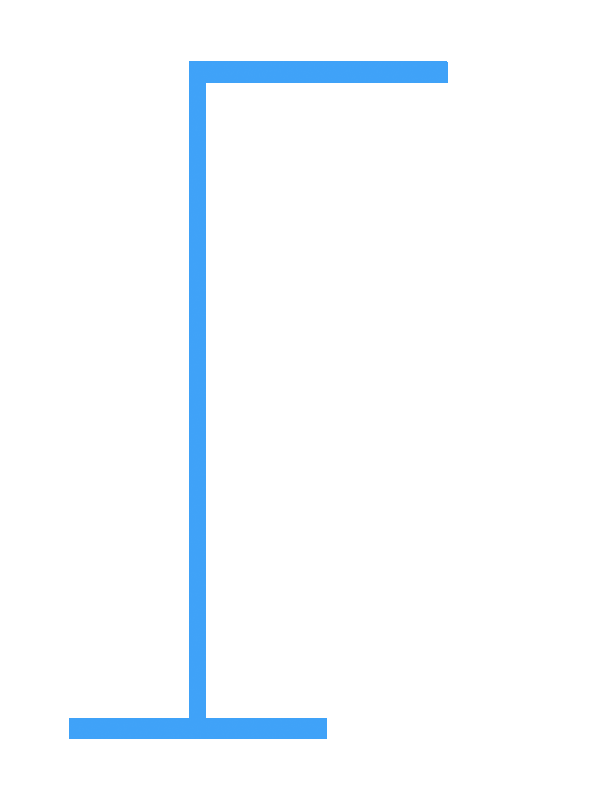
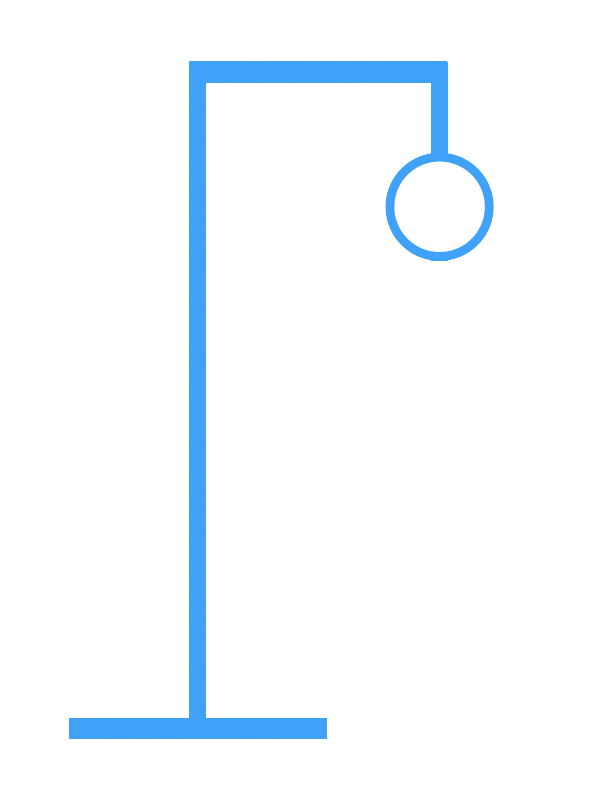
finalizado ahorcado

Changed region(s): [[0.6374, 0.0938, 0.8499, 0.3438]]

diff --git a/src/app/components/punto2/punto2/punto2.component.ts b/src/app/components/punto2/punto2/punto2.component.ts
@@ -1,5 +1,6 @@
 import { Component, OnInit } from '@angular/core';
-
+import { Palo } from 'src/app/models/palo/palo';
+import Swal from 'sweetalert2';
 @Component({
   selector: 'app-punto2',
   templateUrl: './punto2.component.html',
@@ -7,23 +8,31 @@ import { Component, OnInit } from '@angular/core';
 })
 
 export class Punto2Component implements OnInit {
-  // letras: string[] = ['a', 'b', 'c', 'd', 'e', 'f', 'g', 'h', 'i', 'j', 'k', 'l', 'm', 'n', 'o', 'p', 'q', 'r', 's', 't', 'u', 'v', 'w', 'x', 'y', 'z'];
   opciones: Array<{ letra: string, clase: string }> = [{ letra: 'a', clase: "bg-info" }, { letra: 'b', clase: "bg-info" }, { letra: 'c', clase: "bg-info" }, { letra: 'd', clase: "bg-info" }, { letra: 'e', clase: "bg-info" }, { letra: 'f', clase: "bg-info" }, { letra: 'g', clase: "bg-info" }, { letra: 'h', clase: "bg-info" }, { letra: 'i', clase: "bg-info" }, { letra: 'j', clase: "bg-info" }, { letra: 'k', clase: "bg-info" }, { letra: 'l', clase: "bg-info" }, { letra: 'm', clase: "bg-info" }, { letra: 'n', clase: "bg-info" }, { letra: 'ñ', clase: "bg-info" }, { letra: 'o', clase: "bg-info" }, { letra: 'p', clase: "bg-info" }, { letra: 'q', clase: "bg-info" }, { letra: 'r', clase: "bg-info" }, { letra: 's', clase: "bg-info" }, { letra: 't', clase: "bg-info" }, { letra: 'u', clase: "bg-info" }, { letra: 'v', clase: "bg-info" }, { letra: 'w', clase: "bg-info" }, { letra: 'x', clase: "bg-info" }, { letra: 'y', clase: "bg-info" }, { letra: 'z', clase: "bg-info" }];
-  palabras: string[] = ['jaguar', 'cocodrilo', 'leon', 'gato', 'perro', 'jirafa', 'hipopotamo'];
+  palabras: string[] = ['jaguar', 'cocodrilo', 'leon', 'gato', 'perro', 'jirafa', 'hipopotamo', 'cangrejo', 'rata', 'paloma'];
   indice: number = 0;
+  palos!: Array<Palo>;
   palabraSeleccionada!: string;
   intentos: number = 5;
-  errores: number = 0;
+  aciertos: number = 0;
   letrasEncontradas: string[] = [];
   str: string = '';
+  palo!: Palo;
+  indicePalo: number = 0;
   constructor() {
     //categoria animales
+    this.palos = [{ img: "0.png" }, { img: "1.png" }, { img: "2.png" }, { img: "3.png" }, { img: "4.png" }, { img: "5.png" }]
     this.seleccionarPalabra();
     this.mostrarPalabra();
+    this.iniciar();
   }
-
+  recargar() {
+    window.location.reload();
+  }
   iniciar() {
-
+    if (this.indicePalo < this.palos.length) {
+      this.palo = this.palos[this.indicePalo];
+    }
   }
   seleccionarPalabra() {
     let total_palabras = this.palabras.length;
@@ -51,16 +60,53 @@ export class Punto2Component implements OnInit {
     //metodo para verificar letra
     let opt = this.opciones.find(elemento => elemento == value.letra);
     let palabra = this.palabraSeleccionada.split('');
+    let color = false;
     palabra.forEach((e, i) => {
       if (e == opt!.letra) {
         this.letrasEncontradas[i] = e;
         this.mostrarPalabra();
-        opt!.clase = "bg-success";
+        color = true;
+        this.aciertos = this.aciertos + 1;
       }
     });
-    //cambiar color a la letra errada
-    // opt!.clase = "bg-danger";
-    console.log(opt);
+    if (color == false) {
+      opt!.clase = "bg-danger";
+      this.intentos = this.intentos - 1;
+
+      this.indicePalo = this.indicePalo + 1;
+      if (this.indicePalo < this.palos.length) {
+        this.palo = this.palos[this.indicePalo];
+      }
+
+
+    }
+    else {
+      opt!.clase = "bg-success";
+    }
+    if (this.intentos <= 0) {
+      Swal.fire({
+        icon: 'error',
+        title: 'Has Perdido!!!!',
+        confirmButtonText: 'Ok',
+      }).then(async (result) => {
+        if (result.isConfirmed) {
+          await Swal.fire('Cambiando Palabra...', '', 'question');
+          this.recargar();
+        }
+      })
+    }
+    else if (this.aciertos == this.palabraSeleccionada.length) {
+      Swal.fire({
+        icon: 'success',
+        title: 'GANASTE!!!!',
+        confirmButtonText: 'Ok',
+      }).then(async (result) => {
+        if (result.isConfirmed) {
+          await Swal.fire('Cambiando Palabra...', '', 'question');
+          this.recargar();
+        }
+      })
+    }
   }
 
 

diff --git a/src/app/components/punto2/punto2/punto2.component.html b/src/app/components/punto2/punto2/punto2.component.html
@@ -1,10 +1,10 @@
-<div class="container-fluid">
+<div class="container col-sm-12">
   <div>
     <div class="row mb-5">
       <h1>Adivina el animal</h1>
     </div>
 
-    <div class="row">
+    <div class="row col-12">
       <div class="col-md-8">
         <div>
           <div class="letra-oculta" *ngFor="let item of str.split('')">
@@ -13,11 +13,14 @@
         </div>
       </div>
       <div class="col-md-4">
-        <img id="palo" src="../../../../assets/0.png" alt="Palo">
+        <img id="palo" src="assets/{{palo.img}}" alt="Palo">
       </div>
-
+      <div class="row">
+        <h4>Intentos {{intentos}}</h4>
+        <button class="btn bg-success col-2" (click)="recargar()">Jugar de Nuevo</button>
+      </div>
     </div>
-    <div class="row mt-5">
+    <div id="botones" class="row mt-5 col-md-12">
       <button id="abc" *ngFor="let letra of opciones" type="button" (click)="verificarLetra({letra})"
         [class]="letra.clase">{{letra.letra}}</button>
     </div>

diff --git a/src/app/app.module.ts b/src/app/app.module.ts
@@ -3,12 +3,13 @@ import { BrowserModule } from '@angular/platform-browser';
 import { FormsModule } from '@angular/forms';
 
 import { AppComponent } from './app.component';
-import { HeaderComponent } from './components/layout/header/header.component';
+
 import { FooterComponent } from './components/layout/footer/footer.component';
 import { AppRoutingModule } from './app-routing.module';
 import { CommonModule } from '@angular/common';
 import { Punto2Component } from './components/punto2/punto2/punto2.component';
-import { Punto1Component } from './components/punto1/punto1/punto1.component';
+import { Punto1Component } from './components/punto1/punto1.component';
+import { HeaderComponent } from './components/layout/header/header.component';
 //se declaran los componentes que se van a usar a nivel global
 //dentro de la aplicacion
 @NgModule({

diff --git a/src/app/app-routing.module.ts b/src/app/app-routing.module.ts
@@ -1,7 +1,7 @@
 import { NgModule } from '@angular/core';
 import { RouterModule, Routes } from '@angular/router';
 
-import { Punto1Component } from './components/punto1/punto1/punto1.component';
+import { Punto1Component } from './components/punto1/punto1.component';
 import { Punto2Component } from './components/punto2/punto2/punto2.component';
 import { Punto3Component } from './components/punto3/punto3/punto3.component';
 import { HomeComponent } from './components/home/home.component';

diff --git a/src/app/components/punto2/punto2/punto2.component.css b/src/app/components/punto2/punto2/punto2.component.css
@@ -1,9 +1,3 @@
-.container-fluid {
-  background-color: #fff;
-  height: 631px;
-  padding: 2em;
-}
-
 .letra-oculta {
   display: inline-block;
   padding: 0.5em;
@@ -30,4 +24,8 @@
   border-radius: 3px;
   border: 1px dashed #5755d9;
   text-transform: uppercase;
+}
+
+#botones {
+  margin-bottom: 45px;
 }

diff --git a/src/app/components/punto1/punto1.component.spec.ts b/src/app/components/punto1/punto1.component.spec.ts
@@ -8,9 +8,9 @@ describe('Punto1Component', () => {
 
   beforeEach(async () => {
     await TestBed.configureTestingModule({
-      declarations: [ Punto1Component ]
+      declarations: [Punto1Component]
     })
-    .compileComponents();
+      .compileComponents();
   });
 
   beforeEach(() => {

diff --git a/src/app/app.component.html b/src/app/app.component.html
@@ -1,5 +1,5 @@
 <div class="container-fluid">
-  <app-header></app-header>
+  <app-header class="row col-12"></app-header>
   <router-outlet></router-outlet>
-  <app-footer></app-footer>
+  <app-footer class="row col-12"></app-footer>
 </div>

diff --git a/src/app/models/palo/palo.spec.ts b/src/app/models/palo/palo.spec.ts
@@ -1,0 +1,7 @@
+import { Palo } from './palo';
+
+describe('Palo', () => {
+  it('should create an instance', () => {
+    expect(new Palo()).toBeTruthy();
+  });
+});

diff --git a/src/app/components/layout/footer/footer.component.css b/src/app/components/layout/footer/footer.component.css
@@ -3,7 +3,7 @@ footer {
   color: white;
   position: relative;
   bottom: 0;
-  height: 100px;
+  height: 116px;
   width: 100%;
   background-color: #375a7f;
 }

diff --git a/src/app/app.component.css b/src/app/app.component.css
@@ -4,3 +4,10 @@
   margin-right: 0;
   margin-left: 0;
 }
+
+.row {
+  padding-left: 0;
+  padding-right: 0;
+  margin-right: 0;
+  margin-left: 0;
+}

diff --git a/src/app/models/palo/palo.ts b/src/app/models/palo/palo.ts
@@ -1,0 +1,3 @@
+export class Palo {
+  img!: string;
+}
